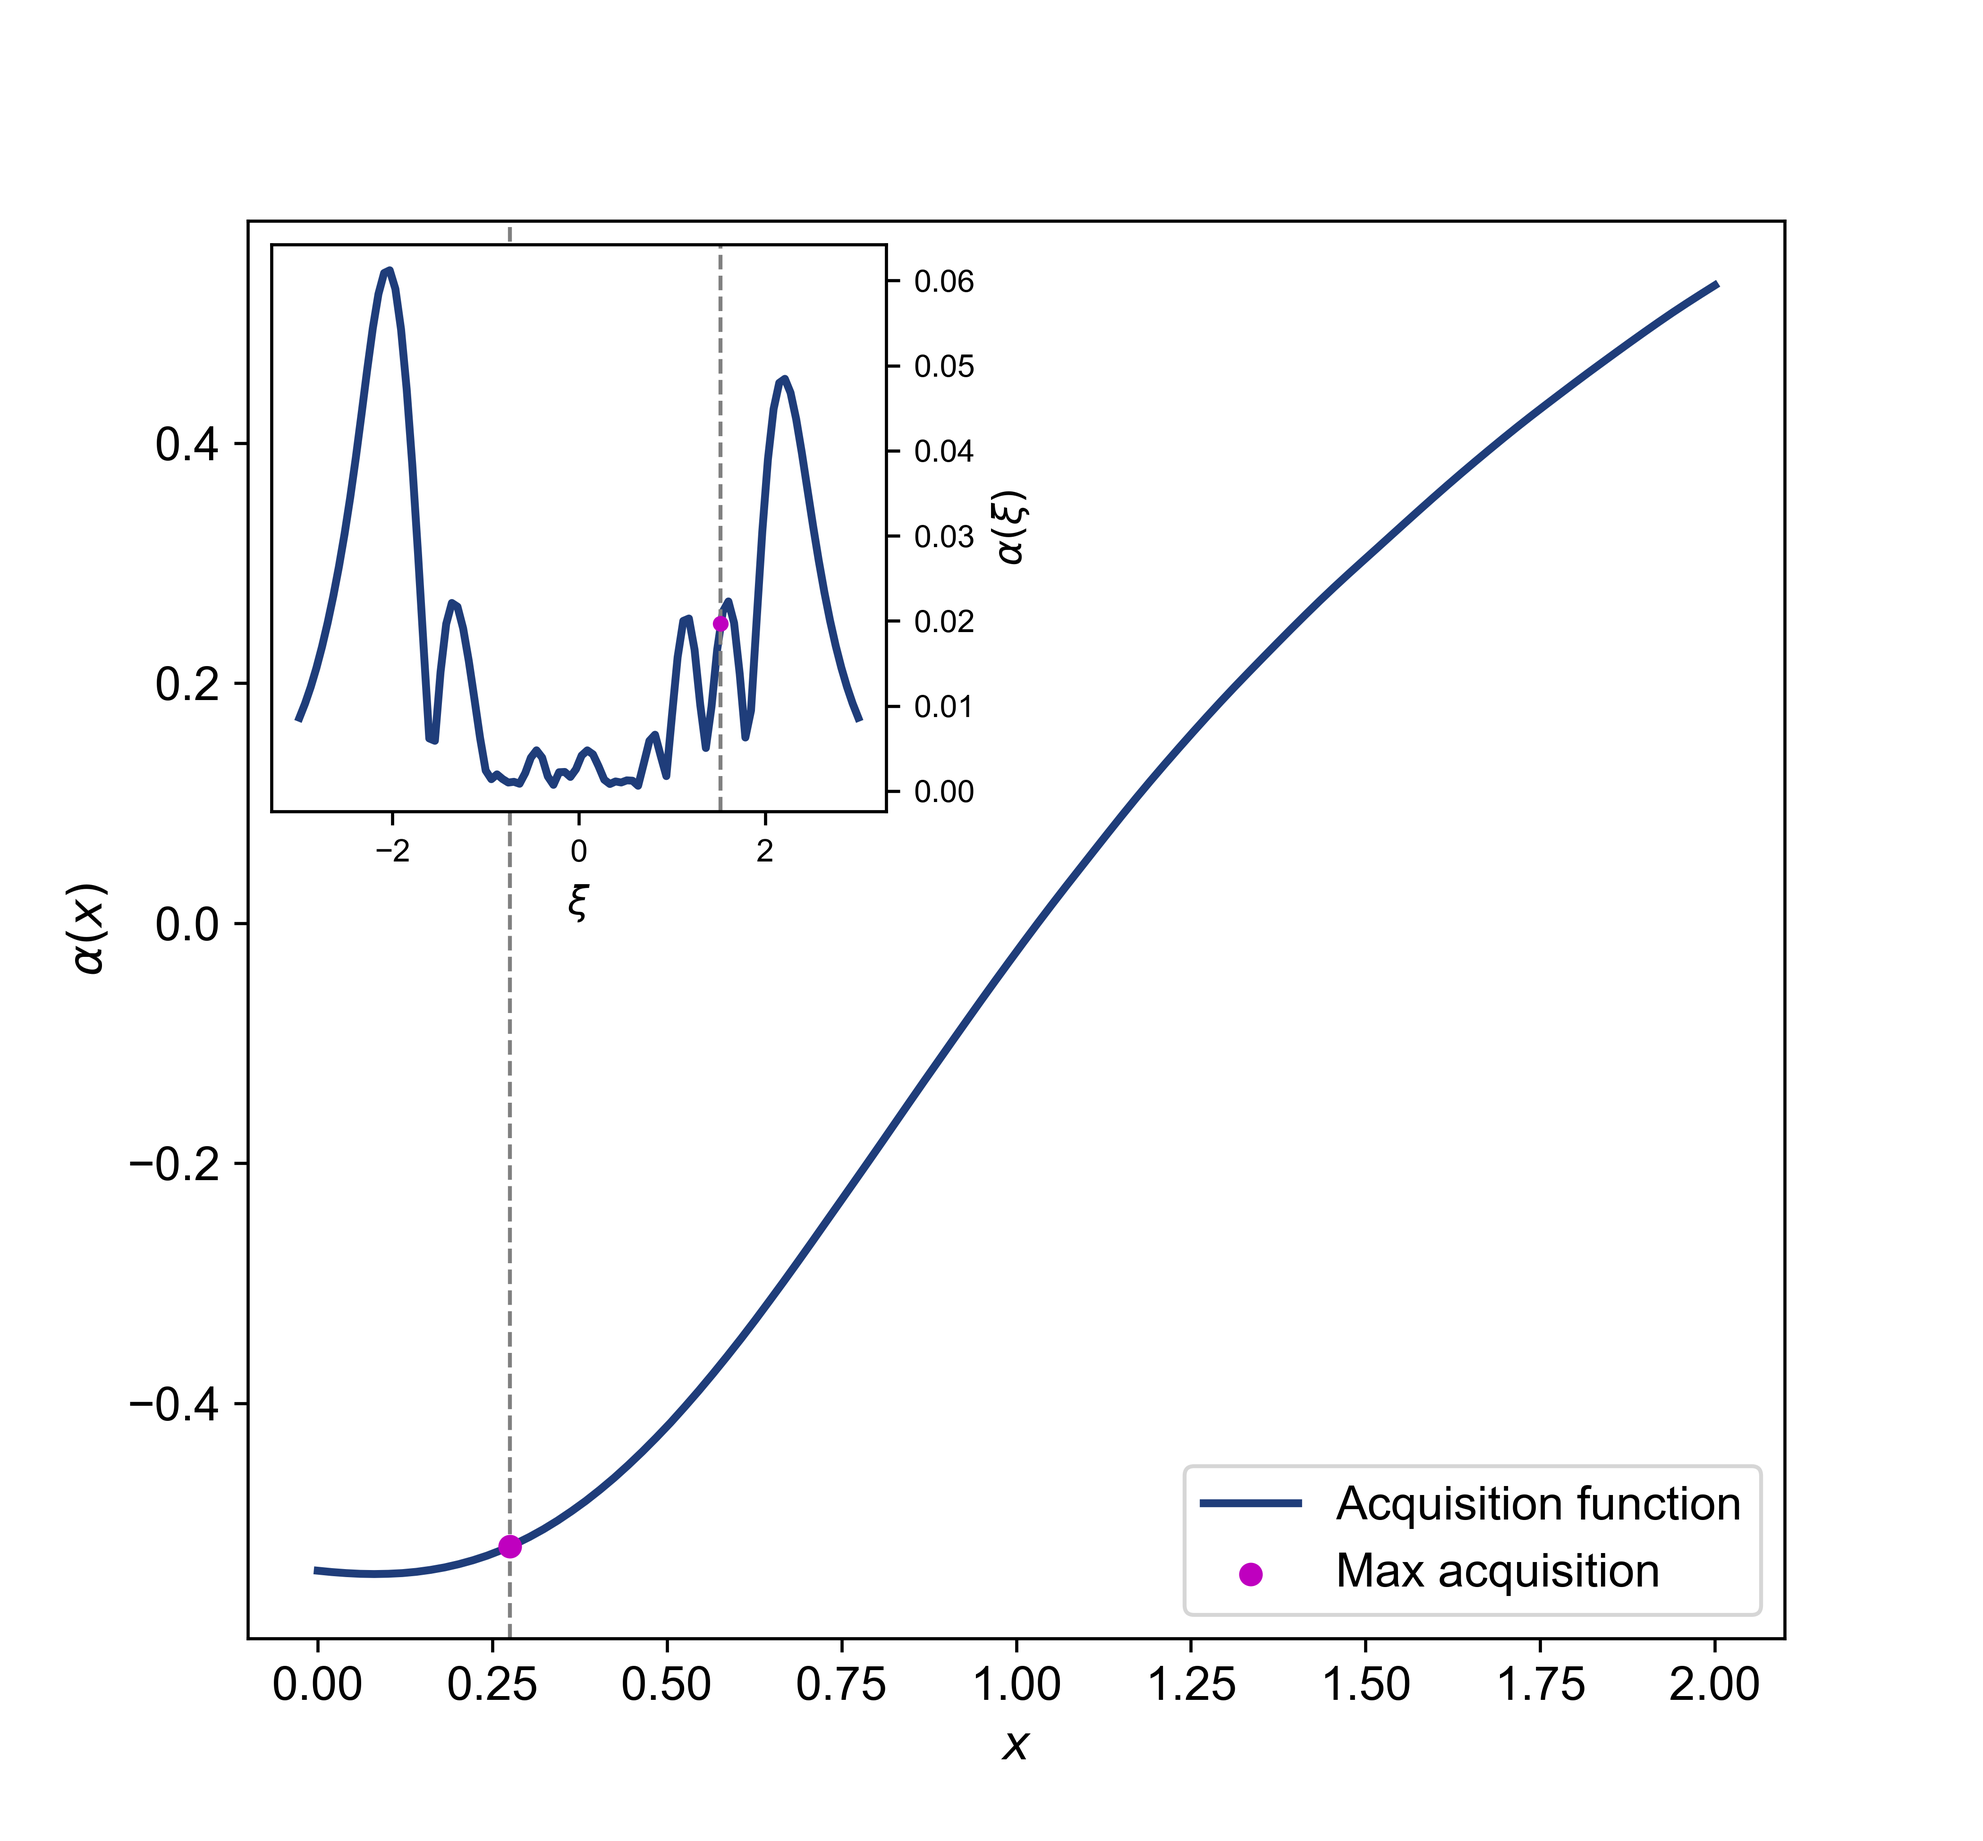
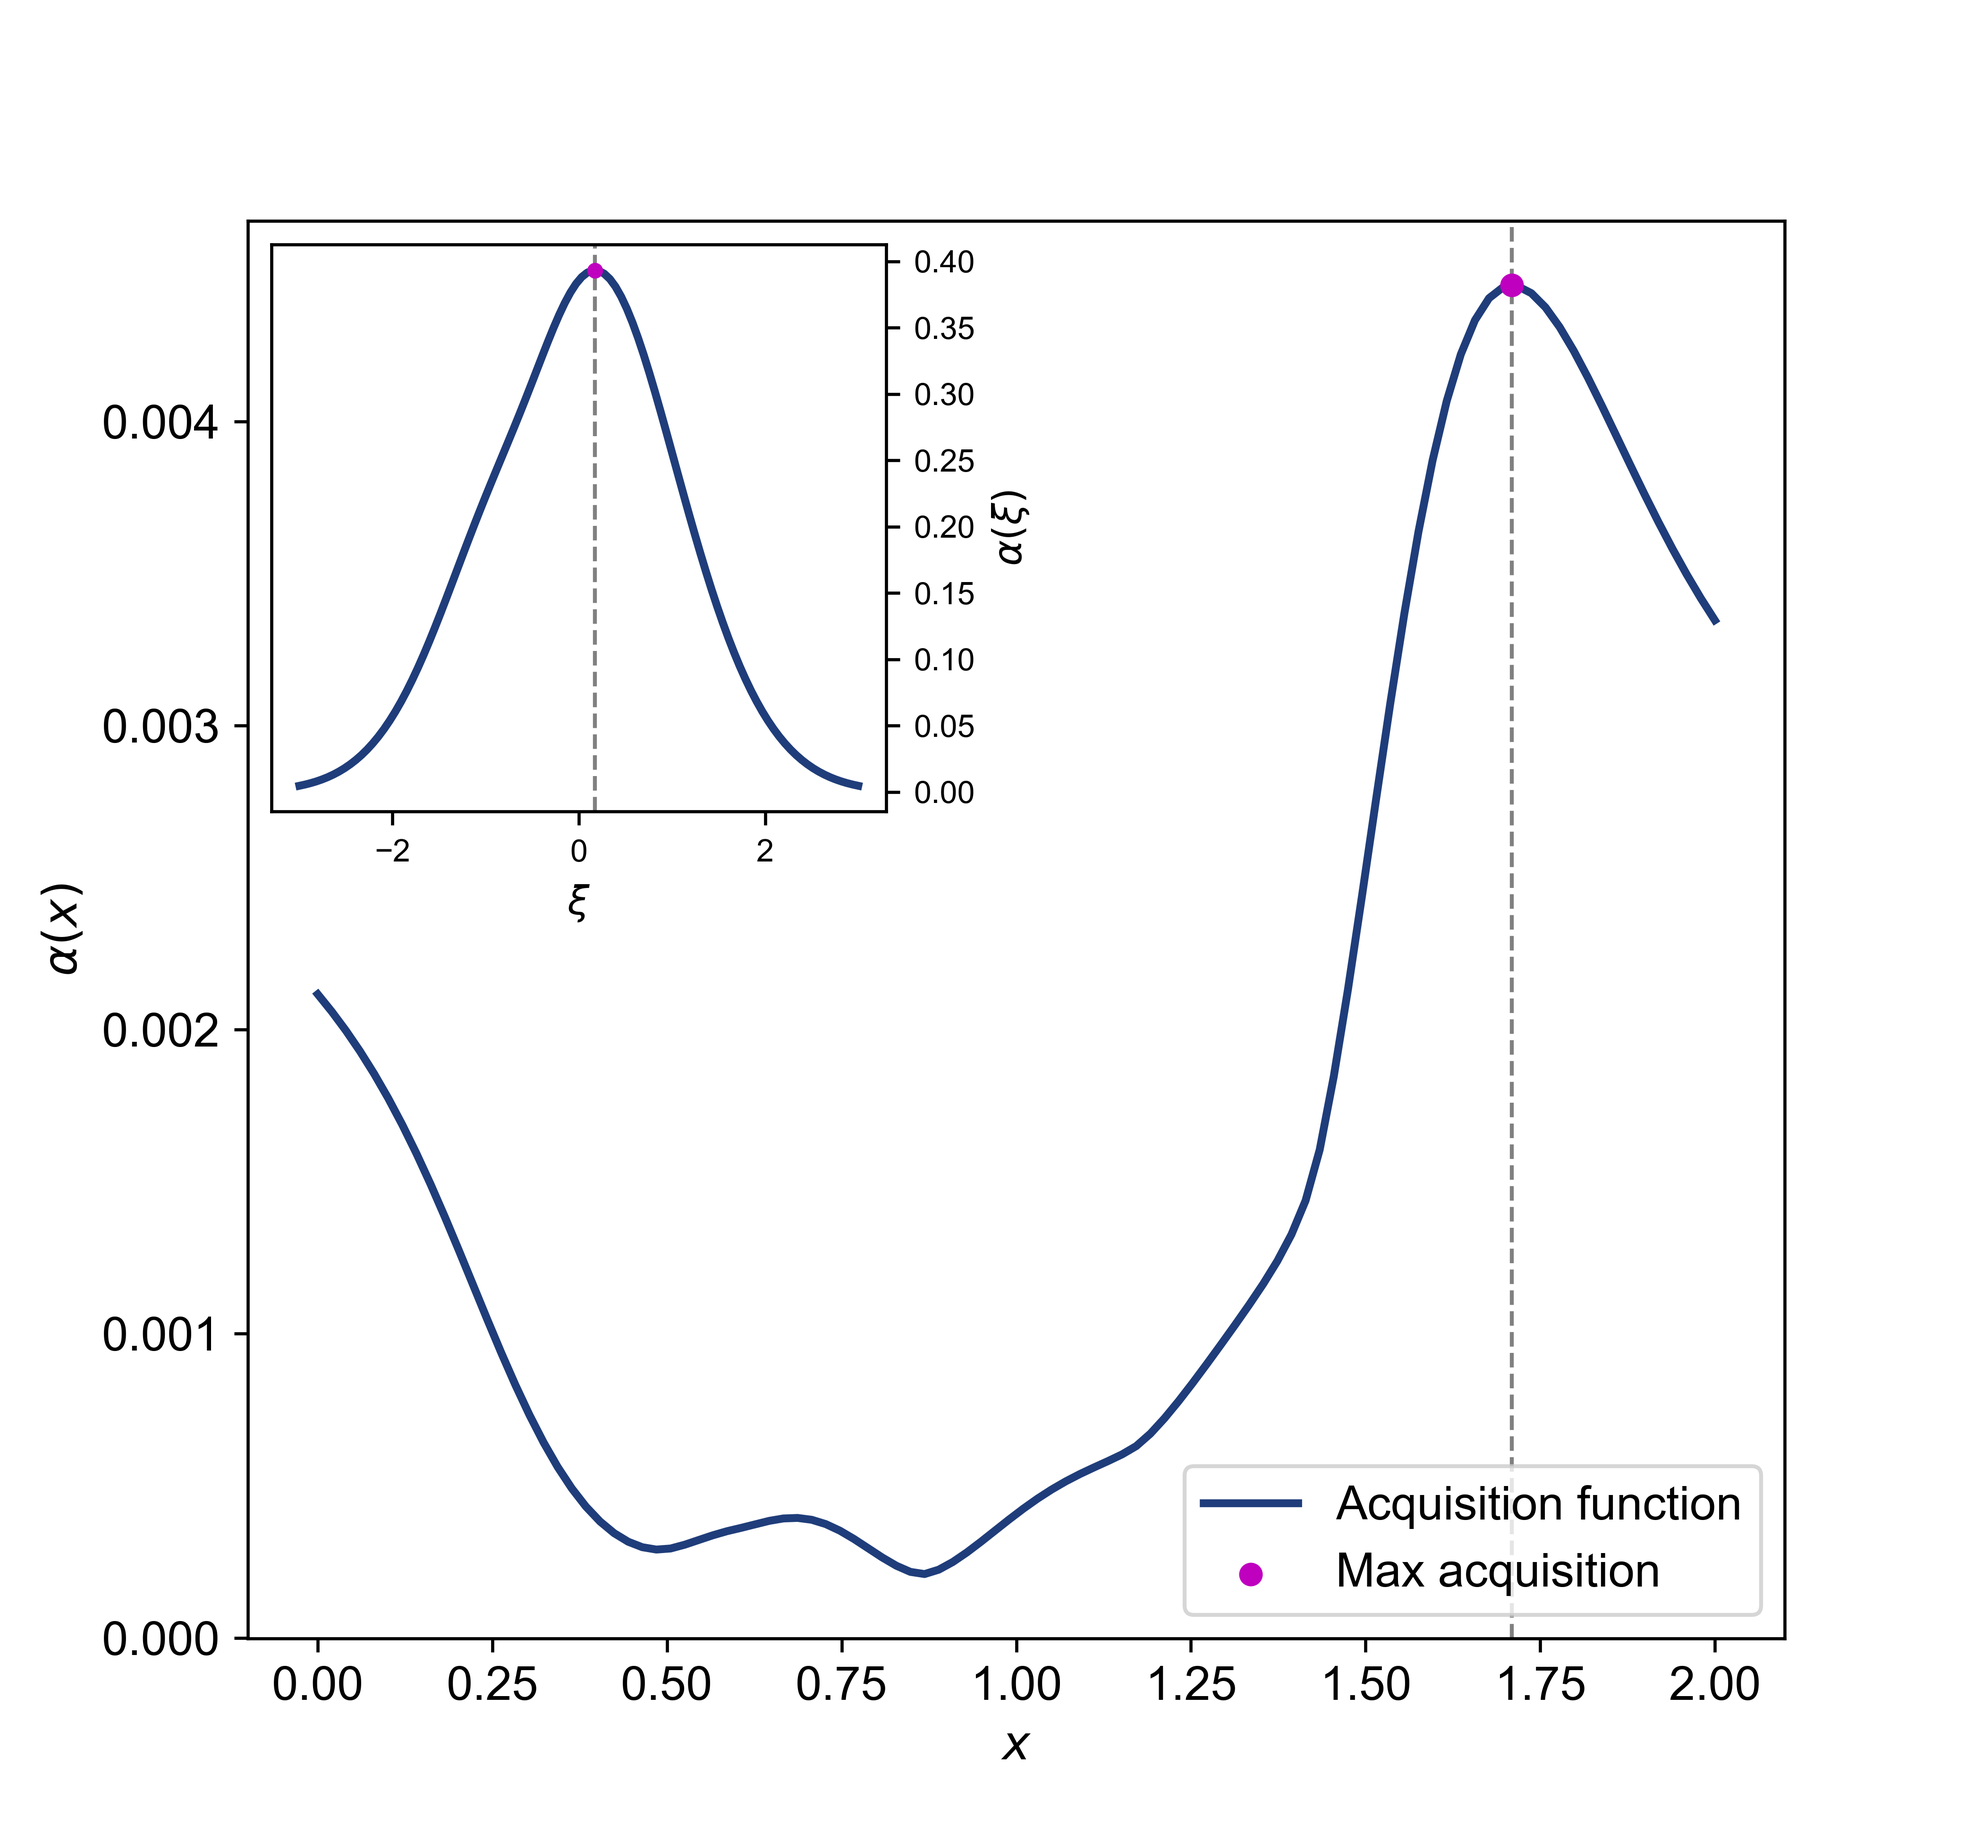
analytic figure done

diff --git a/examples/dce/analytic.py b/examples/dce/analytic.py
@@ -83,7 +83,7 @@ def plotfig(model, problem, borc, points0, points1, point_x, point_xi):
     # mu_gp, mu2_gp, prob_gp, prob2_gp = borc.rbo(x.unsqueeze(1), nsamples=int(1e4), output=False, return_posterior=True)
     # ax1.plot(x.cpu(), mu_gp.cpu(), label=r'GP Mean $\text{E}[f(x,\xi)]$', color='green', linestyle='--', linewidth=2)
     # upper_bound, lower_bound = mu_gp.cpu() + 2 * mu2_gp.cpu(), mu_gp.cpu() - 2 * mu2_gp.cpu()
-    # ax1.fill_between(x.cpu(), lower_bound, upper_bound, color='green', alpha=0.1)
+    # ax1.fill_between(x.cpu(), lower_bound, upper_bound, color='green', alpha=0.1, label=r'GP 90\% CI')
     # # ax1.grid(visible=True, which='both', linestyle='--', linewidth=0.5, alpha=0.7)
     # # probability 
     # ax2 = ax1.twinx()
@@ -111,7 +111,7 @@ def plotfig(model, problem, borc, points0, points1, point_x, point_xi):
 
     # acquisition 
     fig, ax1 = plt.subplots(figsize=(7, 6.5))
-    borc.acquisition = Acquisition(f="eMU", g="ePF", xi=problem.sample_xi(nsamples=int(1e4)).to(device), eps=0.05)
+    borc.acquisition = Acquisition(f="eEI", g="ePF", xi=problem.sample_xi(nsamples=int(1e4)).to(device), eps=0.05)
     acq_x = borc.eval_acquisition(x.unsqueeze(1)).detach()
     ax1.plot(x.cpu(), acq_x.cpu(), label=r'Acquisition function', color='#1f3d7a', linewidth=2)
     ax1.set_xlabel(r'$x$', fontsize=12)
@@ -121,7 +121,7 @@ def plotfig(model, problem, borc, points0, points1, point_x, point_xi):
     ax1.legend(loc='lower right', frameon=True)
     # xi insert 
     ax_inset = inset_axes(ax1, width="40%", height="40%", loc='upper left') 
-    borc.acquisition = Acquisition(f="eWMSE", x=torch.tensor([1.0]).to(device), dist=problem.param_dist)
+    borc.acquisition = Acquisition(f="eWMSE", x=point_x[0].unsqueeze(0), dist=problem.param_dist)
     acq_xi = borc.eval_acquisition(xi.unsqueeze(1)).detach()
     ax_inset.plot(xi.cpu(), acq_xi.cpu(), label=r'Acquisition $\alpha(\xi)$', color='#1f3d7a', linewidth=2)
     ax_inset.set_xlabel(r'$\xi$', fontsize=10)
@@ -145,8 +145,6 @@ class Model():
     
     def g(self):
         x, xi = self.x[:, 0], self.x[:, 1]
-        # return xi - 1/2 * x**2 - 1
-        # return -torch.cos(x) / (1 + xi**2) + x * xi - x**3 - 1
         return -x**2 * torch.sin(xi) - x**3 + xi**3 - torch.log(1 + xi**2) - 1
         
 def bayesopt(ninitial, iters):
@@ -172,41 +170,27 @@ def bayesopt(ninitial, iters):
     borc.initialize(nsamples=ninitial, sample_method="sobol", max_acq=torch.tensor([0.0])) 
 
     points0, _ = borc.surrogate.objective_gps[0].get_training_data()
-    # points1 = [torch.tensor([[0.5, -1]]), torch.tensor([[1.5, 0.75]])]
     points1 = []
 
     for _ in range(iters):
 
-        # borc.acquisition = Acquisition(f="eMU", xi=xi)  
-        # _, borc.fbest = borc.batch_optimize_acq(iters=50, nstarts=5, optimize_x=True) 
+        borc.acquisition = Acquisition(f="eMU", xi=xi)  
+        _, borc.fbest = borc.batch_optimize_acq(iters=200, nstarts=5, optimize_x=True, lr=0.2) 
 
-        borc.acquisition = Acquisition(f="PI") 
-        new_x, max_acq_x = borc.batch_optimize_acq(iters=2, nstarts=1) 
-
-        # # borc.acquisition = Acquisition(f="eEI", g="ePF", xi=xi) 
-        # borc.acquisition = Acquisition(f="eEI", xi=xi) 
-        # new_x, max_acq_x = borc.batch_optimize_acq(iters=10, nstarts=1, optimize_x=True) 
+        borc.acquisition = Acquisition(f="eEI", g="ePF", xi=xi) 
+        new_x, max_acq_x = borc.batch_optimize_acq(iters=200, nstarts=5, optimize_x=True, lr=0.2) 
  
-        # borc.acquisition = Acquisition(f="eWMSE", x=new_x, dist=problem.param_dist)  
-        # new_xi, max_acq_xi = borc.batch_optimize_acq(iters=100, nstarts=5, optimize_xi=True)
-        # borc.step(new_x=torch.cat([new_x, new_xi], dim=1))
-        # points1.append(torch.cat([new_x, new_xi], dim=1))
+        borc.acquisition = Acquisition(f="eWMSE", x=new_x, dist=problem.param_dist)  
+        new_xi, max_acq_xi = borc.batch_optimize_acq(iters=200, nstarts=5, optimize_xi=True, lr=0.01)
+        points1.append(torch.cat([new_x, new_xi], dim=1)) 
+        # borc.step(new_x=torch.cat([new_x, new_xi], dim=1)) 
         # print(f"new_x : {torch.cat([new_x, new_xi], dim=1)}") 
 
-        # borc.acquisition = Acquisition(f="eMU", xi=xi) 
-        # _, borc.fbest = borc.batch_optimize_acq(iters=50, nstarts=5, optimize_x=True) 
-
-        # plotfig(model, problem, borc, points0, torch.cat(points1), torch.tensor((new_x, max_acq_x)), torch.tensor((new_xi, max_acq_xi)))
-
-    # plotfig(model, problem, borc, points0, torch.cat(points1), (new_x, max_acq_x), (new_xi, max_acq_xi))
+        plotfig(model, problem, borc, points0, torch.cat(points1), torch.tensor((new_x, max_acq_x)), torch.tensor((new_xi, max_acq_xi)))
 
     return None, None 
 
 
 if __name__ == "__main__": 
-    ninitial, iters = 75, 1 
+    ninitial, iters = 10, 1 
     xopt, res = bayesopt(ninitial, iters) 
-
-    # TODO extreme z input to self.normal.cdf(z) is breaking gradient flow 
-    # TODO possibly incorrect fbest (ok for determinsitic optimisation) is the cause of this (maybe not)? 
-    # TODO why is std so small, I wonder? 

diff --git a/borc2/bayesopt.py b/borc2/bayesopt.py
@@ -92,7 +92,7 @@ class Borc():
         else: 
             return torch.sum(acqf, dim=1) 
     
-    def _batch_optimize_acq(self, xpts, iters=10, optimize_x=False, optimize_xi=False):
+    def _batch_optimize_acq(self, xpts, lr, iters=10, optimize_x=False, optimize_xi=False):
         """
         Optimize the acquisition function in batch mode over the points xpts 
 
@@ -112,7 +112,7 @@ class Borc():
         bounds = bounds.to(self.device)
         self.new_x, max_acq = self.new_x.to(self.device), max_acq.to(self.device) 
 
-        xpts, acq = borc2.optimize.ADAM(self.eval_acquisition, xpts, iters, bounds) 
+        xpts, acq = borc2.optimize.ADAM(self.eval_acquisition, xpts, iters, bounds, lr=lr) 
 
         # choose best from multiple starts 
         with torch.no_grad():
@@ -122,7 +122,7 @@ class Borc():
             
         return self.new_x.clone().detach(), max_acq.clone().detach()
     
-    def batch_optimize_acq(self, iters=10, nstarts=5, optimize_x=False, optimize_xi=False):
+    def batch_optimize_acq(self, iters=10, nstarts=5, optimize_x=False, optimize_xi=False, lr=0.1):
         """ 
         Optimize the acquisition function. 
 
@@ -133,7 +133,7 @@ class Borc():
             xpts = self.surrogate.problem.sample_xi(nsamples=nstarts, method=self.sample_method)
         else:
             xpts = self.surrogate.problem.sample(nsamples=nstarts, method=self.sample_method)
-        new_x, max_acq = self._batch_optimize_acq(xpts=xpts, iters=iters, optimize_x=optimize_x, optimize_xi=optimize_xi) 
+        new_x, max_acq = self._batch_optimize_acq(xpts=xpts, iters=iters, lr=lr, optimize_x=optimize_x, optimize_xi=optimize_xi) 
 
         return new_x, max_acq
 
@@ -159,7 +159,7 @@ class Borc():
         # optimize 
         f = self.eval_acqf 
         g = self.eval_acqg 
-        
+
         for x0 in xpts: 
             x, acq = borc2.optimize.CMA_ES(f, g, x0.flatten(), iters, bounds)  
 
@@ -219,10 +219,12 @@ class Borc():
         """
         Monte carlo estimate of RBO objective and constraint(s) 
 
+        NOTE use with multiple constraints has not been implemented 
+
         """
         x_batch, _ = self.surrogate.problem.gen_batch_data(x, nsamples=nsamples, fixed_base_samples=True)
         f = self.surrogate.predict_objectives(x_batch)[0]
-        g = self.surrogate.predict_constraints(x_batch)[0] # NOTE multiple constraints not implemented   
+        g = self.surrogate.predict_constraints(x_batch)[0]  
 
         f_mu, f_std = f.posterior()
         f1, f2 = f_mu.mean(dim=1), f_std.mean(dim=1)
@@ -231,7 +233,7 @@ class Borc():
             g_mu, g_std = g.posterior()
             pi = torch.distributions.Normal(g_mu, g_std).cdf(torch.tensor([0.0]).to(g_mu.device)) 
             g1 = pi.mean(dim=1).unsqueeze(0) # \int Phi(-mu/std) p(xi)dxi 
-            g2 = torch.sqrt(pi.var(dim=1, unbiased=True) / nsamples).unsqueeze(0) # NOTE standard error of mean estimate 
+            g2 = torch.sqrt(pi.var(dim=1, unbiased=True) / nsamples).unsqueeze(0) 
             # g1 = (torch.sum(g_mu <= 0, dim=1) / nsamples).unsqueeze(0) 
             # g2 = (g1 * (1 - g1)) / nsamples
             # print(g1)

diff --git a/borc2/acquisition.py b/borc2/acquisition.py
@@ -105,20 +105,8 @@ class Acquisition():
 
         """
         mu, std = self.gp_predict(x, gp)
-        print(mu)
-        print(std)
-        print(fbest)
         z = (mu - fbest) / torch.clamp(std, min=self.min) 
-        z = torch.clamp(z, min=-3, max=3)
-        # return self.normal.cdf(z)
-        # log_cdf = torch.log(self.normal.cdf(z) + 1e-9)
-        # return log_cdf.exp()
-        print(z)
-        print()
         return self.normal.cdf(z)
-        # print(torch.clamp(z, min=-5, max=5))
-        # return -torch.log(self.normal.cdf(torch.clamp(z, min=-5, max=5)) + 1e-9).mean()
-        # return 0.5 * (1 + torch.erf(z / torch.sqrt(torch.tensor(2.0))))
     
     def entropy(self, x, gp, fbest): 
         """
@@ -190,22 +178,24 @@ class Acquisition():
         See Arendt et al. "Objective-Oriented Sequential Sampling for Simulation Based Robust Design Considering Multiple Sources of Uncertainty." J Mec Des. 2013.
 
         """
-        batch_x = gen_batch_data(x, self.xi)
+        batch_x = gen_batch_data(x, self.xi) 
         pred = gp.predict(batch_x, return_std=True, grad=True) 
-        mu, std = pred.mu.mean(dim=1), pred.std.mean(dim=1)  
+        mu, std = pred.mu.mean(dim=1), pred.std.mean(dim=1) 
         z = (mu - fbest) / torch.clamp(std, min=self.min) 
         return (mu - fbest) * self.normal.cdf(z) + std * torch.exp(self.normal.log_prob(z)) 
-    
+
     def probability_of_feasibility_monte_carlo(self, x, gp, fbest):
         """
         P[g(x,xi)<0]  = '\'int Phi(-mu/std) p(xi)dxi
 
+        NOTE use with multiple constraints has not be tested (!)
+
         """
         batch_x = gen_batch_data(x, self.xi)
-        pred = gp.predict(batch_x, return_std=True, grad=True) # NOTE multiple constraints not tested         
-        mu, std = pred.posterior()
+        pred = gp.predict(batch_x, return_std=True, grad=True)         
+        mu, std = pred.posterior() 
         p = torch.distributions.Normal(mu, std).cdf(torch.tensor([0.0]).to(mu.device)) 
-        return p.mean(dim=1) - 1 + self.eps
+        return p.mean(dim=1) - 1 + self.eps 
     
     def mean_squared_error(self, xi, gp, fbest):
         """

diff --git a/borc2/optimize.py b/borc2/optimize.py
@@ -12,14 +12,14 @@ warnings.filterwarnings("ignore", message=r".*Bounds are 1.0 sigma away from eac
 # ============================================= 
 # pytorch 
 # =============================================  
-def LBFGS(f, x, iters, bounds, lr=0.01):     
+def LBFGS(f, x, iters, bounds, lr=0.1):     
     """
     Unconstrained optimisation using torch.optim.LBFGS with bounds 
 
     """
     return torch_optim(f, x, iters, bounds, optimiser='LBFGS', lr=lr)
 
-def ADAM(f, x, iters, bounds, lr=0.02):
+def ADAM(f, x, iters, bounds, lr=0.1):
     """
     Unconstrained optimisation using torch.optim.ADAM with bounds 
 
@@ -41,13 +41,15 @@ def torch_optim(f, x, iters, bounds, optimiser='ADAM', lr=0.1):
     elif optimiser == 'ADAM':
         optimizer = torch.optim.Adam([x], lr=lr)
 
+    def closure():
+        optimizer.zero_grad()  
+        loss = f(x)            
+        loss = -loss.sum()     
+        loss.backward()    
+        return loss
+
     for _ in range(int(iters)):
-        print(x)
-        optimizer.zero_grad() 
-        loss = f(x)
-        loss = -loss.sum() 
-        loss.backward() 
-        optimizer.step()
+        optimizer.step(closure)
 
     with torch.no_grad():
         x = torch.min(torch.max(x, b0), b1)

diff --git a/examples/borc_1d.py b/examples/borc_1d.py
@@ -71,10 +71,10 @@ if __name__ == "__main__":
     borc.cuda(device)
     borc.initialize(nsamples=6, sample_method="lhs") 
 
-    iters = 1
+    iters = 3 
     for i in range(iters): 
         print(f"Iter: {i + 1}/{iters} | Max Objective: {borc.surrogate.fbest.cpu()},  Optimal x : {borc.surrogate.xbest.cpu()}") 
-        new_x, max_acq = borc.batch_optimize_acq(iters=1, nstarts=1) 
-        # plot1d(problem, borc) 
-        # borc.step(new_x=new_x) 
+        new_x, max_acq = borc.batch_optimize_acq(iters=20, nstarts=10) 
+        plot1d(problem, borc) 
+        borc.step(new_x=new_x) 
        

diff --git a/borc2/problem.py b/borc2/problem.py
@@ -305,6 +305,8 @@ class Problem():
         """
         Monte carlo estimate of RBO objective and constraint(s) 
 
+        NOTE use with multiple constraints has not been implemented 
+
         """
         x_batch, _ = self.gen_batch_data(x, nsamples=nsamples, fixed_base_samples=True)
         m = self.model(x_batch.view(-1, x_batch.size(-1)))
